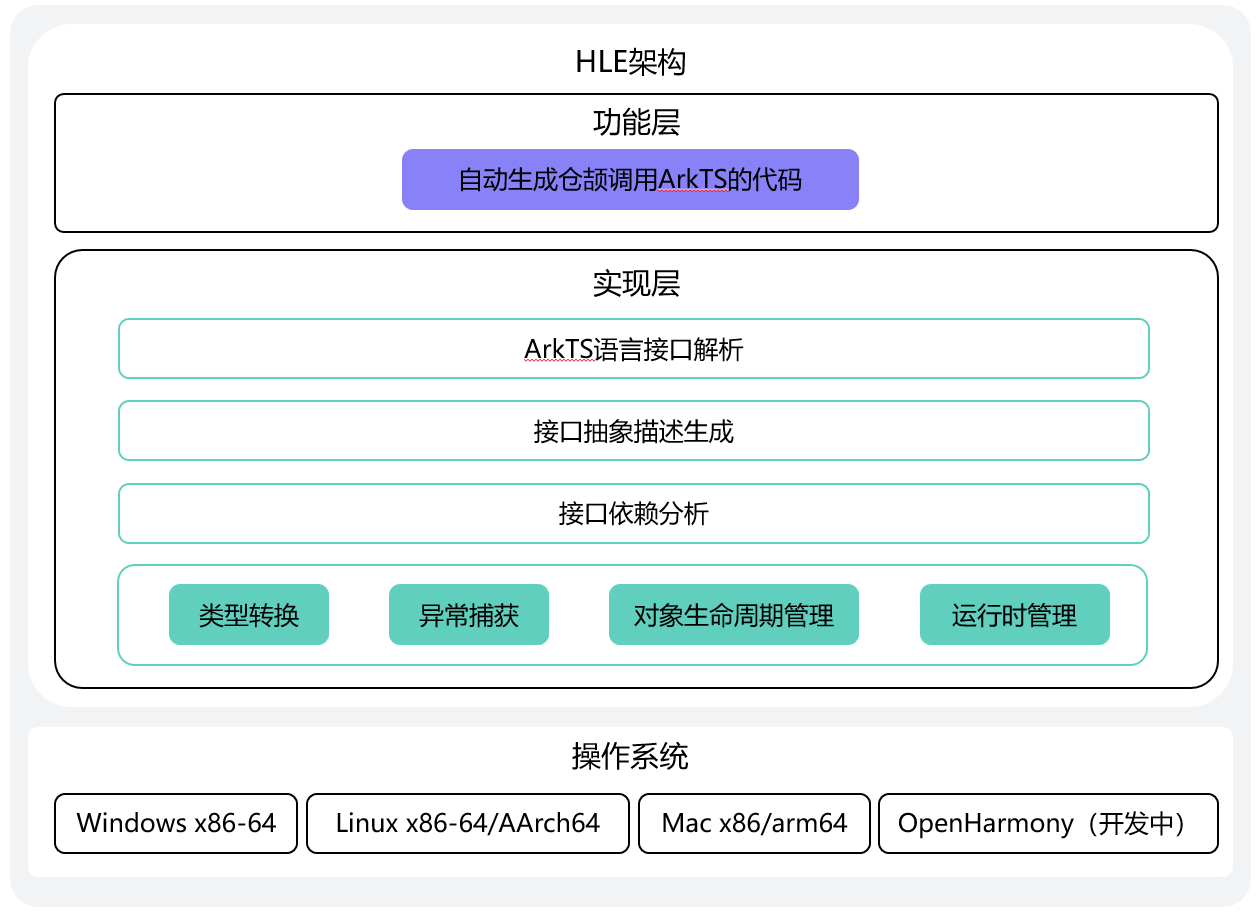
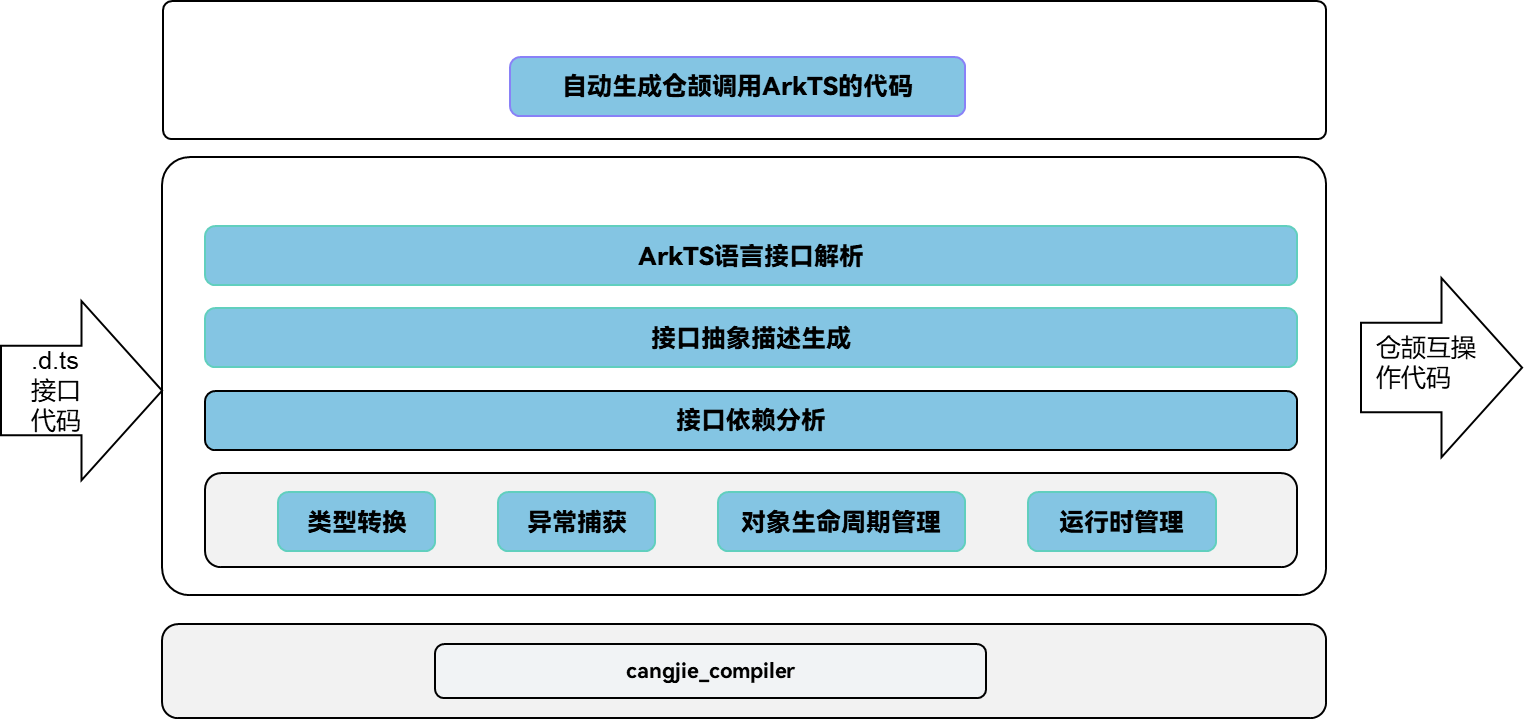
fixed doc

diff --git a/hyperlangExtension/doc/developer_guide.md b/hyperlangExtension/doc/developer_guide.md
@@ -7,6 +7,22 @@ The tool takes ArkTS interface declaration files (e.g., files with `.d.ts` or `.
 
 ![HLE Architecture Diagram](../figures/HLE_eng.png)
 
+As shown in the architecture diagram:
+
+Interface Layer:
+
+- ArkTS Language Interface Parsing: Parses the input ArkTS interface declaration file, extracting various information about the interface, such as definition, parameters, return values, etc. This provides the basic interface metadata for subsequent generation of interoperability code, serving as the starting parsing step of the entire code generation process.
+
+Framework Layer:
+
+- Interface Abstract Description Generation: Based on the parsed ArkTS interface, the interface information is abstracted to create a unified and concise abstract description of the interface, facilitating subsequent operations like interface dependency analysis, and providing a clear abstract model for handling interface relations during the code generation process.
+- Interface Dependency Analysis: Analyzes the dependency relationships between various ArkTS interfaces, clarifying the order of calls, dependency conditions, etc., ensuring that the generated interoperability code is logically correct, can properly handle dependencies between interfaces, and guarantees the executability of the code.
+- Type Conversion: Since there may be different data type systems between Cangjie and ArkTS, this part is responsible for converting data types between the two environments, ensuring that data types correctly match when Cangjie calls ArkTS or when ArkTS returns data to Cangjie, thus avoiding errors caused by type incompatibility.
+- Exception Handling: During the interoperability process between Cangjie and ArkTS, various exceptions may occur, such as call errors or runtime errors. This function is used to capture these exceptions for error handling, ensuring the program remains stable in the event of an exception or provides appropriate error prompts.
+- Object Lifecycle Management: Manages the entire lifecycle of objects involved in interoperability, including creation, usage, and destruction, ensuring objects are managed correctly at appropriate times, avoiding memory leaks, and ensuring the efficiency and stability of memory usage in the program.
+- Runtime Management: Responsible for the relevant management of interoperability code during execution, such as configuring the runtime environment, resource scheduling during the execution process, performance monitoring, etc., ensuring that the generated interoperability code can be efficiently and stably executed in the target runtime environment.Explanation of the imported components in the architecture diagram:- cangjie_compiler: Provides the capability to compile and build HLE tools.
+
+
 ## Directory Structure
 
 The source code directory of `HLE` is structured as follows, with main functionalities described in the comments:

diff --git a/hyperlangExtension/doc/developer_guide_zh.md b/hyperlangExtension/doc/developer_guide_zh.md
@@ -7,6 +7,31 @@
 
 ![HLE架构设计图](../figures/HLE.png)
 
+如架构图所示：
+
+接口层：
+
+- ArkTS语言接口解析：对输入的 ArkTS 接口声明文件进行解析，提取其中关于接口的各种信息，比如接口的定义、参数、返回值等，为后续生成互操作代码提供基础的接口元数据，是整个代码生成流程的起始解析步骤。
+
+框架层：
+
+- 接口抽象描述生成：在解析 ArkTS 接口的基础上，将接口信息进行抽象化处理，生成统一、简洁的接口抽象描述，便于后续进行接口依赖分析等操作，为代码生成过程中对接口关系的处理提供清晰的抽象模型。
+
+- 接口依赖分析：分析各个 ArkTS 接口之间的依赖关系，明确接口在调用时的先后顺序、依赖条件等，确保生成的互操作代码在逻辑上是正确的，能够处理好接口之间的依赖，保证代码的可运行性。
+
+- 类型转换：由于仓颉和 ArkTS 可能存在不同的数据类型体系，这部分负责处理两种环境下数据类型的转换，确保在仓颉调用 ArkTS 或者 ArkTS 反馈数据给仓颉时，数据类型能够正确匹配，避免类型不兼容导致的错误。
+
+- 异常捕获：在仓颉与 ArkTS 互操作的过程中，可能会出现各种异常情况，比如调用错误、运行时错误等。该功能用于捕获这些异常，以便进行错误处理，保证程序在出现异常时能够稳定运行，或者给出合适的错误提示。
+
+- 对象生命周期管理：管理互操作过程中涉及的对象的创建、使用和销毁等整个生命周期，确保对象在合适的时机被正确管理，避免内存泄漏等问题，保障程序的内存使用效率和稳定性。
+
+- 运行时管理：负责互操作代码在运行时的相关管理工作，比如运行环境的配置、运行过程中的资源调度、性能监控等，确保生成的互操作代码能够在目标运行环境中高效、稳定地执行。
+
+架构图中依赖部件引入说明：
+
+- cangjie_compiler: 提供编译构建HLE工具的能力。
+
+
 ## 目录
 
 `HLE` 源码目录如下图所示，其主要功能如注释中所描述。
